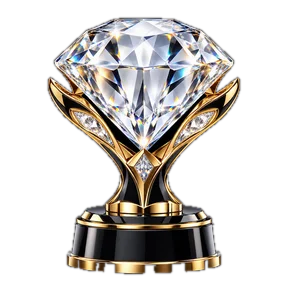
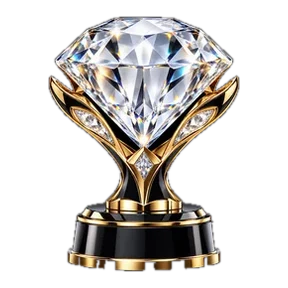
All trophy pictures: transparent background and one common size
Claude-Session: https://claude.ai/code/session_01T82HzswSGddkd4v84Vh2yp

Changed region(s): [[0.1562, 0.0312, 0.8438, 0.9688]]

diff --git a/web/src/app.css b/web/src/app.css
@@ -1763,7 +1763,7 @@ textarea.field { resize: vertical; min-height: 84px; }
 .contact { display: flex; flex-direction: column; gap: 10px; align-items: flex-start; } .contactopen { display: inline-flex; align-items: center; gap: 6px; min-height: var(--touch); }
 .contactform { display: flex; flex-direction: column; gap: 10px; width: 100%; max-width: 480px; } .contactform textarea { resize: vertical; min-height: 96px; }
 .hp { position: absolute; left: -9999px; width: 1px; height: 1px; opacity: 0; pointer-events: none; }
-.tr3dimg { object-fit: cover; border-radius: 14px; }
+.tr3dimg { object-fit: contain; }
 .tr3dwrap { --tm: none; position: relative; display: block; flex: none; }
 .tr3dwrap.lit::after { content: ""; position: absolute; inset: 0; pointer-events: none; background: linear-gradient(115deg, transparent 38%, rgba(255, 255, 255, .6) 50%, transparent 62%) 130% 0 / 260% 100% no-repeat; -webkit-mask: var(--tm) center / contain no-repeat; mask: var(--tm) center / contain no-repeat; animation: trglint 4.5s ease-in-out infinite; }
 @keyframes trglint { 0%, 55% { background-position: 130% 0; } 100% { background-position: -130% 0; } }
